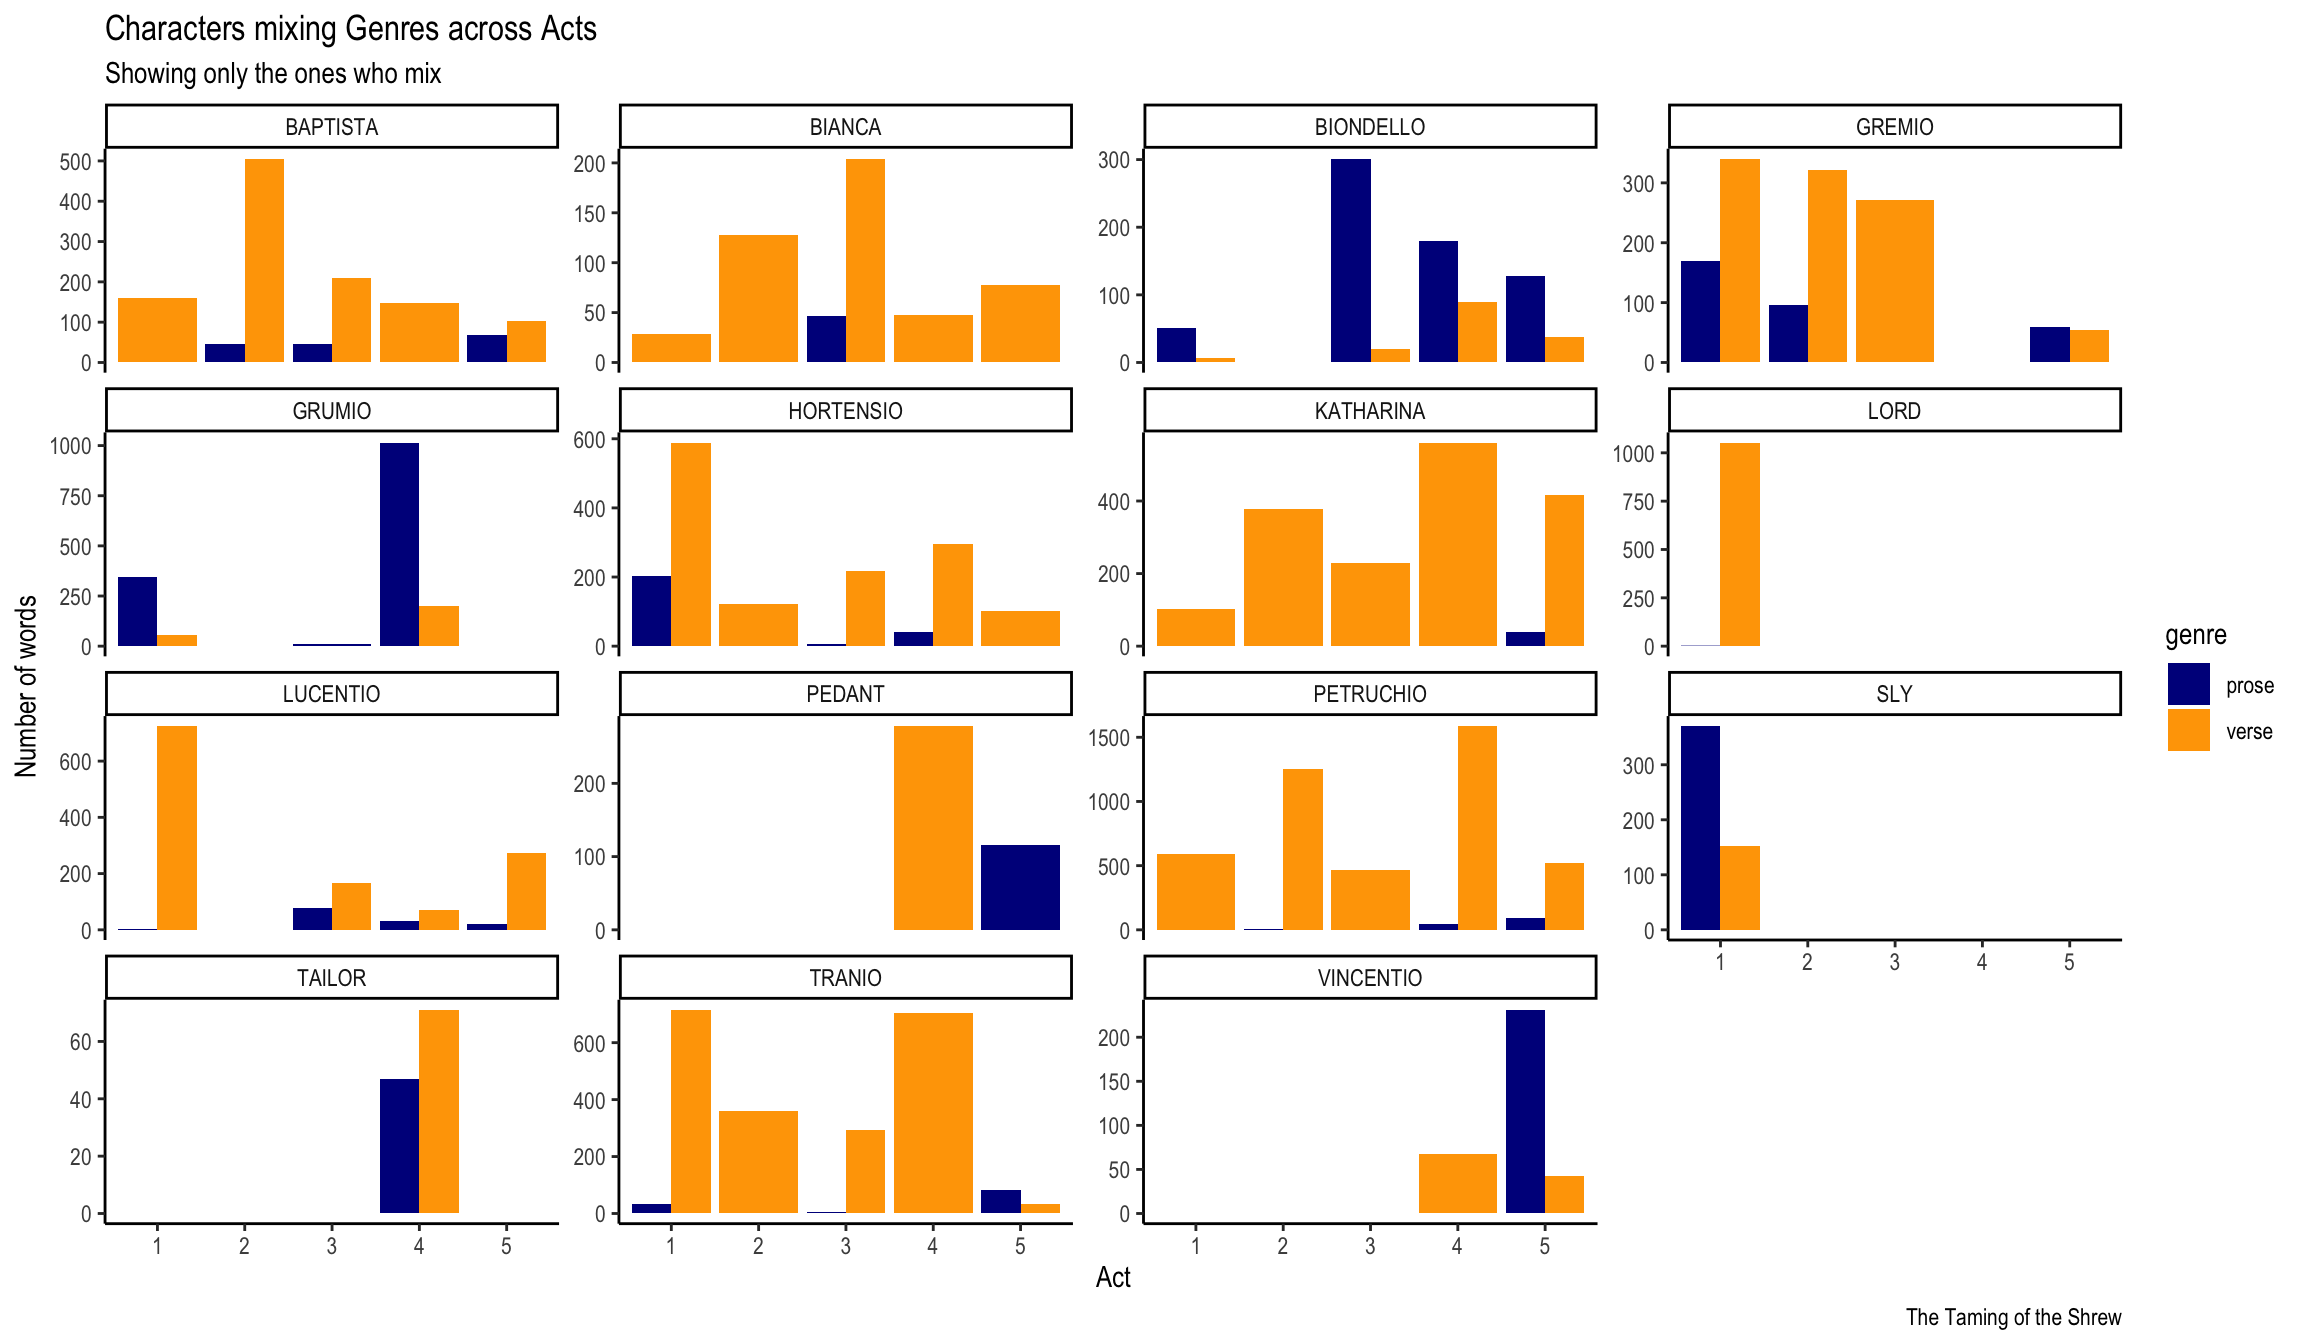
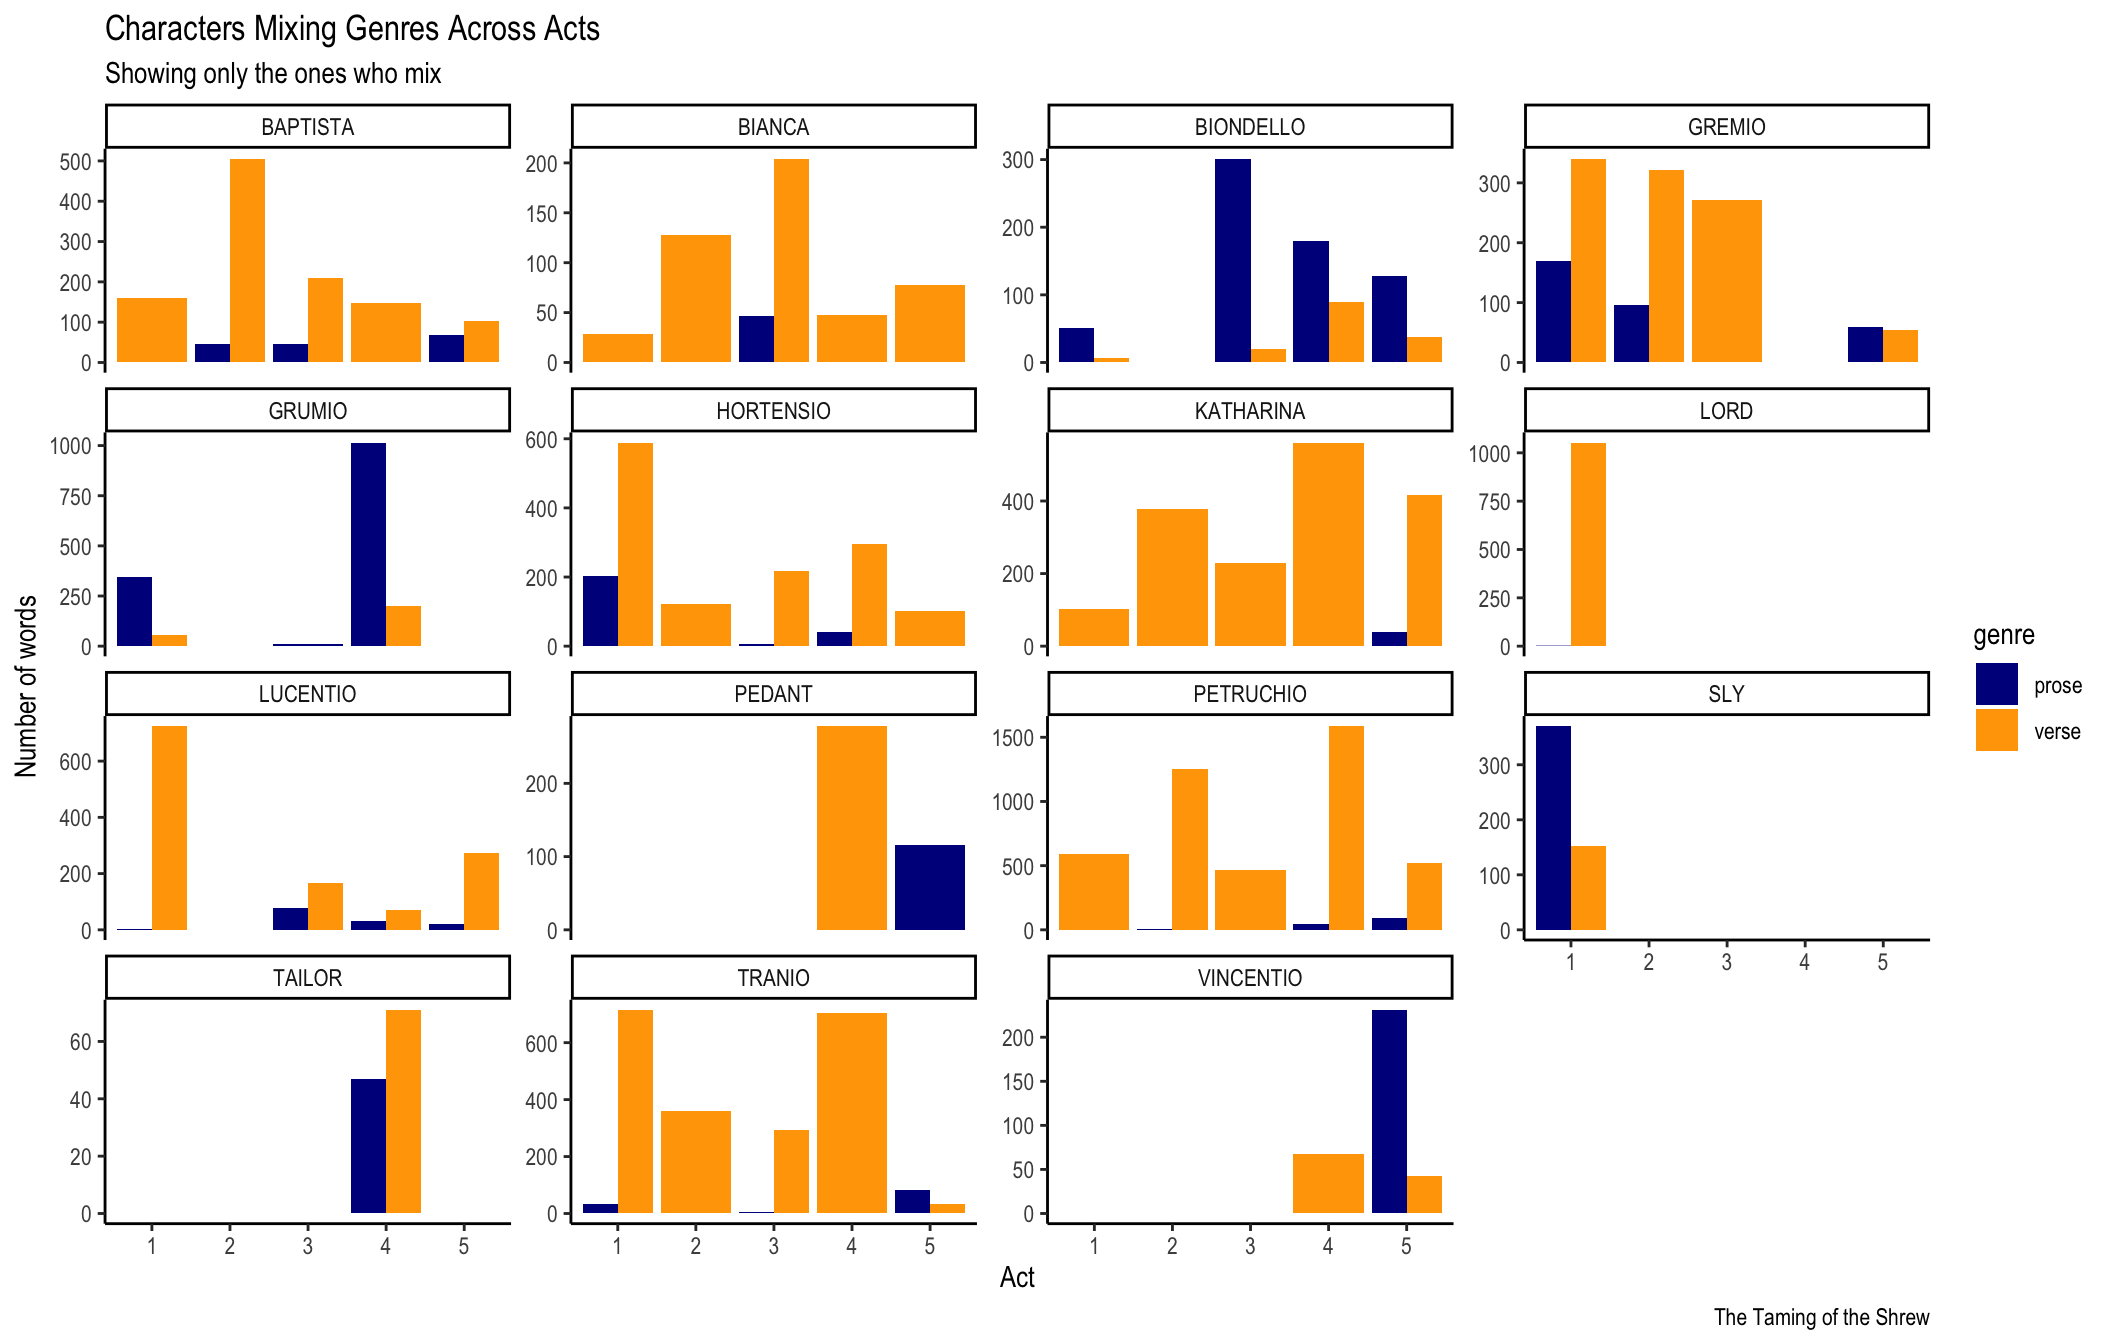
rev

diff --git a/_posts/some-numbers/some-numbers.html b/_posts/some-numbers/some-numbers.html
@@ -1524,7 +1524,7 @@ Our “variables of interest” are, for now: <strong>genre</strong>, <strong>sp
 </div>
 <p>Let’s see how they mix across the five acts.</p>
 <div class="layout-chunk" data-layout="l-screen-inset shaded">
-<p><img src="some-numbers_files/figure-html5/mixing%20by%20act-1.png" width="1152" /></p>
+<p><img src="some-numbers_files/figure-html5/mixing%20by%20act-1.png" width="1056" /></p>
 </div>
 <div class="sourceCode" id="cb2"><pre class="sourceCode r distill-force-highlighting-css"><code class="sourceCode r"></code></pre></div>
 <!--radix_placeholder_article_footer-->

diff --git a/_site/posts/some-numbers/index.html b/_site/posts/some-numbers/index.html
@@ -2151,7 +2151,7 @@ Our “variables of interest” are, for now: <strong>genre</strong>, <strong>sp
 </div>
 <p>Let’s see how they mix across the five acts.</p>
 <div class="layout-chunk" data-layout="l-screen-inset shaded">
-<p><img src="some-numbers_files/figure-html5/mixing%20by%20act-1.png" width="1152" /></p>
+<p><img src="some-numbers_files/figure-html5/mixing%20by%20act-1.png" width="1056" /></p>
 </div>
 <div class="sourceCode" id="cb2"><pre class="sourceCode r distill-force-highlighting-css"><code class="sourceCode r"></code></pre></div>
 <!--radix_placeholder_article_footer-->
